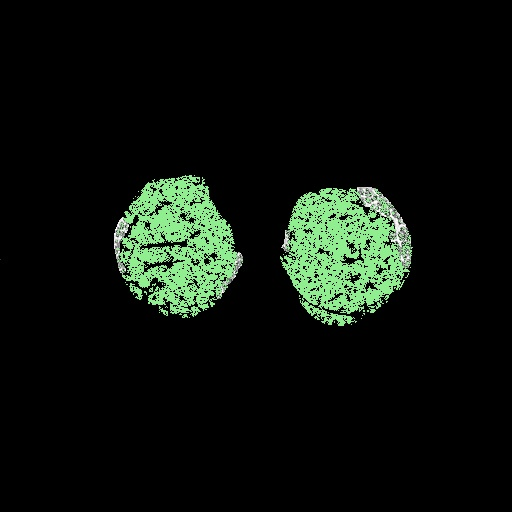
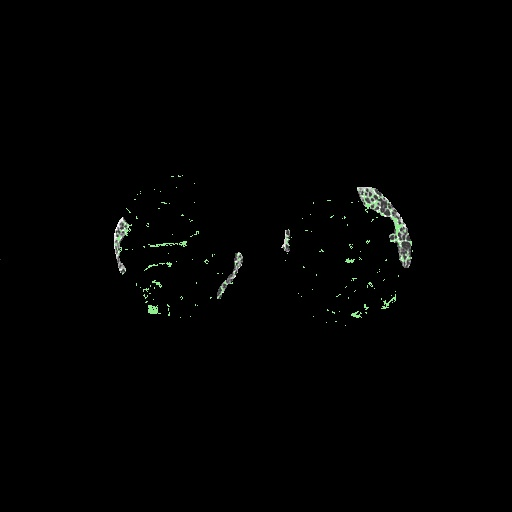
优化蜂巢选值范围，补充部分GLCM

Changed region(s): [[0.5312, 0.3438, 0.8125, 0.6562], [0.2188, 0.3438, 0.4688, 0.625]]

diff --git a/proj/code/GLCM.py b/proj/code/GLCM.py
@@ -1,31 +1,76 @@
 import os
 import cv2
 import matplotlib.pyplot as plt
+import numpy as np
+import math
+
+gray_level = 16  # 灰度级数
+window_w=7
+window_h=7
+
+def getMaxGrayLevel(img):
+    max_gray_level = 0
+    height, width = img.shape
+    for y in range(height):
+        for x in range(width):
+            if img[y][x] > max_gray_level:
+                max_gray_level = img[y][x]
+    return max_gray_level + 1
+
+
+def getGLCM(img, dx, dy):
+    ans = np.zeros(img.shape, dtype=np.uint8)
+    max_gray_level = getMaxGrayLevel(img)
+    height, width = img.shape
+    # 减小灰度级数
+    if max_gray_level > gray_level:
+        for j in range(height):
+            for i in range(width):
+                img[j][i] = img[j][i] * gray_level / max_gray_level
+
+    # 计算共生矩阵
+    for j in range(height - dy):
+        for i in range(width - dx):
+            x = img[j][i]
+            y = img[j + dy][i + dx]
+            ans[x][y] += 1
+    return ans
+
+
+def feature(m):
+    contrast = 0.0  # 对比度
+    energy = 0.0  # 能量
+    entropy = 0.0  # 熵
+    homogeneity = 0.0  # 一致性
+    for i in range(gray_level):
+        for j in range(gray_level):
+            contrast += (i - j) * (i - j) * m[i][j]
+            energy += int(m[i][j] * m[i][j])
+            homogeneity += m[i][j] / (1 + (i - j) * (i - j))
+            if m[i][j] > 0.0:
+                entropy += m[i][j] * math.log(m[i][j])
+
+    return contrast, energy, -entropy, homogeneity
 
 
 def focalSegment():
     reticular_path = "../reticular"
-    parenchyma_path = "../parenchyma"
+    parenchyma_path = "../reticular_parenchyma"
 
     for root, dirs, files in os.walk(parenchyma_path):
         for filename in files:
             # 读取肺实质图像
             path = os.path.join(root, filename)
-            maskedImg = cv2.imread(path)
-            # 读取原始图像
-            imgPath = os.path.join(reticular_path, filename)
-            img = cv2.imread(imgPath)
-            # 生成灰度图用于处理
-            gray = cv2.cvtColor(maskedImg, cv2.COLOR_BGR2GRAY)
-            row_size, col_size = gray.shape
+            img = cv2.imread(path)
+            gray = cv2.cvtColor(img, cv2.COLOR_BGR2GRAY)
 
-            # 生成直方图
-            plot = list(filter(lambda a: a != 0, gray.flatten()))
-            plt.hist(plot, bins=20)
-            plt.show()
+            glcm_0 = getGLCM(gray, 1, 0)
+            # print(glcm_0)
+            contrast, energy, entropy, homogeneity = feature(glcm_0)
+            print(contrast, energy, entropy, homogeneity)
 
             # 输出最终病灶结果
-            cv2.imwrite(r"../focalResults/" + filename, img)
+            # cv2.imwrite(r"../focalResults/" + filename, img)
 
 
 if __name__ == '__main__':

diff --git a/proj/code/greyHistogram.py b/proj/code/greyHistogram.py
@@ -8,11 +8,11 @@ def focalSegment(isReticular):
     honeycombing_path = "../pretreat/honeycombing"
     origin_path = "../honeycombing_parenchyma"
     if isReticular:
-        mask_path = honeycombing_path
+        mask_path = reticular_path
         origin_path = "../reticular_parenchyma"
         result_path = "../reticular_result/"
     else:
-        mask_path = reticular_path
+        mask_path = honeycombing_path
         origin_path = "../honeycombing_parenchyma"
         result_path = "../honeycombing_result/"
 
@@ -36,7 +36,7 @@ def focalSegment(isReticular):
             if isReticular:
                 low, high = (170, 200)
             else:
-                low, high = (60, 100)
+                low, high = (200, 255)
 
             for i in range(row_size):
                 for j in range(col_size):
@@ -48,4 +48,4 @@ def focalSegment(isReticular):
 
 
 if __name__ == '__main__':
-    focalSegment(isReticular=True)
+    focalSegment(isReticular=False)

diff --git a/实验报告.md b/实验报告.md
@@ -149,7 +149,7 @@ plt.hist(plot, bins=20)
 plt.show()
 ```
 
-<img src=".\img\reticularGray.png" alt="image-20210527114309106" style="zoom:67%;" />
+<img src=".\img\reticularGray.png" alt="image-20210527114309106" style="zoom: 50%;" />
 
 对应绘制原图经过肺实质分割后的灰度直方图
 
@@ -175,11 +175,95 @@ plt.show()
 
 <img src=".\img\gray3.jpg" alt="gray3" style="zoom:67%;" />
 
-<center>图x.1号图对honey combing的判定结果</center>
+<center>图x.1号图灰度范围[60,100]对honey combing的判定结果</center>
+
+但观察发现灰度值高的地方主要集中在honey combing和reticular处，采用范围[200,255]有更好的效果
+
+<img src=".\img\gray4.jpg" alt="gray4" style="zoom:67%;" />
+
+<center>图x.1号图灰度范围[200,255]对honey combing的判定结果</center>
 
 
 
 ## 灰度共生矩阵
+
+灰度共生矩阵被定义为从灰度为i的像素点出发，某个固定距离的上的点灰度值为j的概率，即，所有估计的值可以表示成一个矩阵的形式，以此被称为灰度共生矩阵。通过灰度共生矩阵能够计算出一些统计量作为纹理分类的特征
+
+### 构建灰度共生矩阵
+
+在图像中任意一点（x,y）及偏离它的一点(x+a,y+b)（其中a，b为整数）构成点对。设该点对的灰度值为(f1,f2)，统计整幅图像中各(f1,f2)出现的次数，然后排列成一个方阵，再用(f1,f2)出现的总次数将它们归一化为出现的概率P(f1,f2)，由此产生的矩阵为灰度共生矩阵。
+
+ab的合理取值受纹理大小影响，此处由于honey combing和reticular纹理均较为细致，因此ab取值应该较小
+
+为避免过于繁琐的计算，先减小灰度级数，其中max_gray_level是原图中最大灰度级
+
+```python
+# 减小灰度级数
+if max_gray_level > gray_level:
+    for j in range(height):
+        for i in range(width):
+            img[j][i] = img[j][i] * gray_level / max_gray_level
+```
+
+再进行相关计算
+
+```python
+# 计算共生矩阵
+for j in range(height - dy):
+    for i in range(width - dx):
+        x = img[j][i]
+        y = img[j + dy][i + dx]
+        ans[x][y] += 1
+```
+
+便得到了灰度共生矩阵ans
+
+### 计算特征值
+
++ **对比度**
+
+  度量 矩阵的值是如何分布和图像中局部变化的多少，反应了图像的清晰度和纹理的沟纹深浅。纹理的沟纹越深，反差越大，效果越清晰；反之，对比值小，则沟纹浅，效果模糊。
+  $$
+  Con=\sum_{i} \sum_j (i-j)^2P(i,j)
+  $$
+  
+
++ **能量**
+
+  能量变换反映了图像灰度分布均匀程度和纹理粗细度。若灰度共生矩阵的元素值相近，则能量较小，表示纹理细致；若其中一些值大，而其它值小，则能量值较大。能量值大表明一种较均一和规则变化的纹理模式。
+  $$
+  Asm=\sum_i\sum_jP(i,j)^2
+  $$
+  
+
++ **熵**
+
+  图像包含信息量的随机性度量。当共生矩阵中所有值均相等或者像素值表现出最大的随机性时，熵最大；因此熵值表明了图像灰度分布的复杂程度，熵值越大，图像越复杂。
+  $$
+  Ent=-\sum_i\sum_jP(i,j) \log P(i,j)
+  $$
+  
+
++ **逆方差**
+
+  逆方差反映了图像纹理局部变化的大小，若图像纹理的不同区域间较均匀，变化缓慢，逆方差会较大，反之较小。
+  $$
+  H=\sum_i^{N-1}\sum_j^{N-1} \frac{P(i,j|d,\theta)}{1+(i-j)^2}
+  $$
+
+代码如下
+
+```python
+for i in range(gray_level):
+    for j in range(gray_level):
+        contrast += (i - j) * (i - j) * m[i][j]
+        energy += int(m[i][j] * m[i][j])
+        homogeneity += m[i][j] / (1 + (i - j) * (i - j))
+        if m[i][j] > 0.0:
+            entropy += m[i][j] * math.log(m[i][j])
+```
+
+### 绘制对应图像
 
 
 
@@ -190,4 +274,8 @@ plt.show()
 [python+opencv 获取图片中指定颜色的部分_飞天土豆的博客-CSDN博客](https://blog.csdn.net/qq_40456669/article/details/93375709)
 
 [opencv+python实现图像匹配----模板匹配、特征点匹配_GaoSimin-CSDN博客_python 模板匹配](https://blog.csdn.net/zhuisui_woxin/article/details/84400439)
+
+[[图像纹理——灰度共生矩阵_sunny的专栏-CSDN博客_灰度共生矩阵](https://blog.csdn.net/guanyuqiu/article/details/53117507)](https://blog.csdn.net/qq_36654309/article/details/106527876?utm_medium=distribute.pc_relevant.none-task-blog-baidujs_baidulandingword-4&spm=1001.2101.3001.4242)
+
+
 
